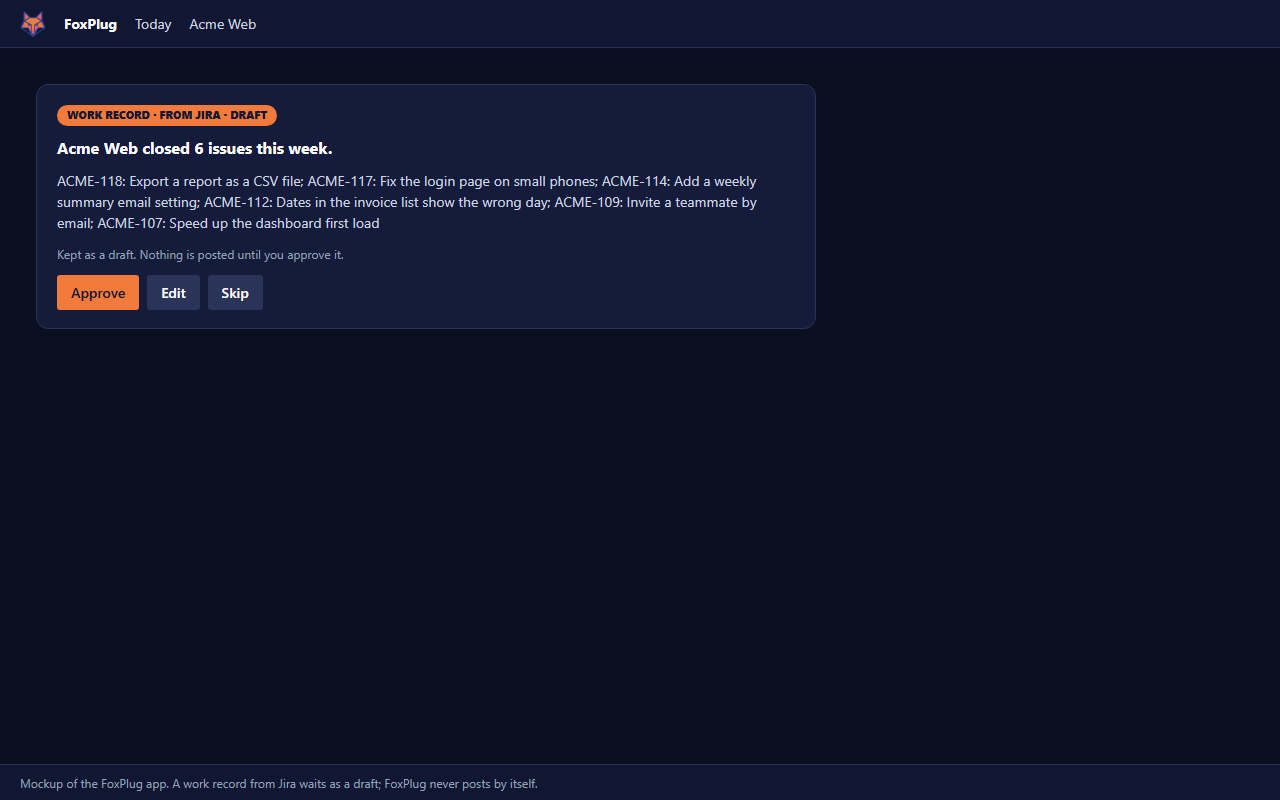
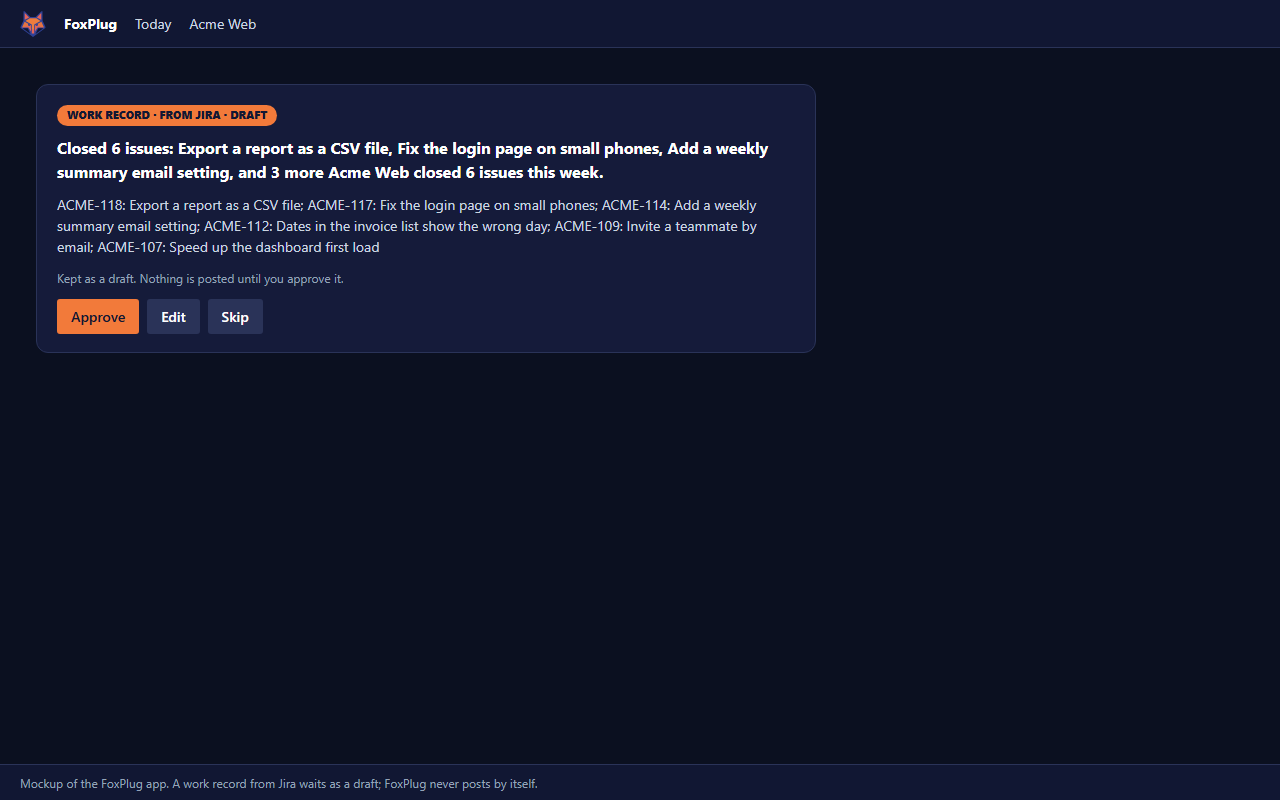
Send success opens the draft in FoxPlug (deep link); plain first line for the work record title

Changed region(s): [[0.0312, 0.1562, 0.6562, 0.4688]]

diff --git a/src/lib.js b/src/lib.js
@@ -40,7 +40,8 @@ const COPY = {
   },
   messages: {
     saved: 'Saved.',
-    sent: 'Sent to FoxPlug as a work record. Open FoxPlug to see it; nothing was posted.',
+    sent: 'Sent. Open your draft in FoxPlug.',
+    sentNoLink: 'Sent to FoxPlug as a work record. Open FoxPlug to see it; nothing was posted.',
     keyOk: 'FoxPlug accepted this key. You can send work records.',
     badKey: 'FoxPlug did not accept this agent key. Make a new one with "Make a plain key" in FoxPlug (steps below) and paste it again.',
     pause: 'FoxPlug asked for a short pause. Try again in a minute.',
@@ -104,12 +105,21 @@ function jiraStatusMessage(status) {
   return 'Jira did not return the issues. Try again in a moment.';
 }
 
-/** One plain block FoxPlug can turn into a milestone. No model, no invention: only the issue keys and summaries. */
+/** One plain block FoxPlug can turn into a milestone. No model, no invention: only the issue keys and summaries.
+ *  The first line becomes the milestone title in FoxPlug, so it carries plain words only ("Closed 5 issues: welcome email, dark mode, ...");
+ *  the issue keys stay in the lines after it. */
 function buildSummary(items, projectName) {
   if (!items.length) return '';
+  const n = items.length;
+  const plain = items.map((r) => String(r.summary || '').trim()).filter(Boolean);
+  const shown = plain.slice(0, 3);
+  let head = `Closed ${n} issue${n === 1 ? '' : 's'}`;
+  if (shown.length) head += `: ${shown.join(', ')}`;
+  if (plain.length > shown.length) head += `, and ${plain.length - shown.length} more`;
+  head = head.slice(0, 180);
   const lines = items.map((r) => `${r.key}: ${r.summary}`);
-  const head = `${projectName || 'The team'} closed ${items.length} issue${items.length === 1 ? '' : 's'} this week.`;
-  return `${head} ${lines.join('; ')}`.slice(0, 1800);
+  const body = `${projectName || 'The team'} closed ${n} issue${n === 1 ? '' : 's'} this week. ${lines.join('; ')}`;
+  return `${head}\n\n${body}`.slice(0, 1800);
 }
 
 // ---------------------------------------------------------------------------------------------------------------------
@@ -118,7 +128,7 @@ function buildSummary(items, projectName) {
 
 /** The JSON-RPC body for FoxPlug's record_work tool (capture is free and posts nothing). */
 function recordWorkBody(foxplugProject, summary) {
-  return { jsonrpc: '2.0', id: 1, method: 'tools/call', params: { name: 'record_work', arguments: { project: String(foxplugProject), summary: String(summary) } } };
+  return { jsonrpc: '2.0', id: 1, method: 'tools/call', params: { name: 'record_work', arguments: { project: String(foxplugProject), summary: String(summary), from_app: 'jira' } } };
 }
 
 /** The JSON-RPC body that only asks which tools the key may use (used to check a key without sending anything). */
@@ -149,7 +159,18 @@ function parseMcpReply(status, data) {
   const r = data.result || {};
   const text = r.content && r.content[0] && r.content[0].text;
   if (r.isError) return { ok: false, message: String(text || 'FoxPlug could not do that.').slice(0, 300) };
-  return { ok: true, message: COPY.messages.sent };
+  // The reply text is JSON with the milestone and project ids; the link is built here from the ids (never taken from the reply as-is).
+  let body = null;
+  try { body = JSON.parse(String(text || '')); } catch (e) { body = null; }
+  const link = draftLink(body && body.project_id, body && body.milestone_id);
+  return link ? { ok: true, message: COPY.messages.sent, openUrl: link } : { ok: true, message: COPY.messages.sentNoLink };
+}
+
+const UUID = /^[0-9a-f]{8}-[0-9a-f]{4}-[0-9a-f]{4}-[0-9a-f]{4}-[0-9a-f]{12}$/i;
+/** The link to the draft in FoxPlug: only ever foxplug.com, only with two real ids. */
+function draftLink(projectId, milestoneId) {
+  if (!UUID.test(String(projectId || '')) || !UUID.test(String(milestoneId || ''))) return '';
+  return `https://foxplug.com/app/?project=${projectId}&milestone=${milestoneId}&from=jira`;
 }
 
 /** Reads FoxPlug's reply to tools/list into { ok, message }: a key that FoxPlug accepts answers with the tool list. */
@@ -252,6 +273,6 @@ function friendlyError(err, where) {
 module.exports = {
   MCP_ENDPOINT, KEY_PAGE, MAX_ISSUES, COPY,
   isProjectKey, buildJql, toShippedItems, jiraStatusMessage, buildSummary,
-  recordWorkBody, toolsListBody, projectsBody, parseProjects, parseMcpReply, parseKeyCheck, feedUrl, toFeedItems, feedStatusMessage, isAgentKey,
+  recordWorkBody, toolsListBody, projectsBody, parseProjects, parseMcpReply, draftLink, parseKeyCheck, feedUrl, toFeedItems, feedStatusMessage, isAgentKey,
   validateSettings, sendBlockedReason, shippedView, feedView, friendlyError,
 };

diff --git a/assets/mockups/05-sent.html b/assets/mockups/05-sent.html
@@ -28,5 +28,5 @@ ol{padding-left:20px;margin:0 0 10px}li{margin:0 0 4px}
 </style></head><body>
 <div class="top"><b>Jira</b><span>Projects</span><span>Acme Web (ACME)</span></div>
 <div class="wrap"><div class="side"><div>Backlog</div><div>Board</div><div>Timeline</div><div class="on">Shipped this week (FoxPlug)</div><div>Project settings</div></div>
-<div class="main"><div class="msg ok">Sent to FoxPlug as a work record. Open FoxPlug to see it; nothing was posted.</div><h2>Shipped this week</h2><p>Read-only: this page reads the issues your team closed in the last 7 days. Sending them to FoxPlug keeps one work record that you approve in FoxPlug. Nothing is posted anywhere.</p><div class="cols"><div class="col"><h3>Closed in Jira</h3><div class="row"><span class="loz Story">Story</span><span>ACME-118: Export a report as a CSV file</span></div><div class="row"><span class="loz Bug">Bug</span><span>ACME-117: Fix the login page on small phones</span></div><div class="row"><span class="loz Task">Task</span><span>ACME-114: Add a weekly summary email setting</span></div><div class="row"><span class="loz Bug">Bug</span><span>ACME-112: Dates in the invoice list show the wrong day</span></div><div class="row"><span class="loz Story">Story</span><span>ACME-109: Invite a teammate by email</span></div><div class="row"><span class="loz Task">Task</span><span>ACME-107: Speed up the dashboard first load</span></div><span class="btn pri">Send to FoxPlug</span><span class="btn">Refresh</span></div><div class="col"><h3>Already in the FoxPlug changelog</h3><div class="row"><a>Invite your team by email</a><span class="help" style="margin:0">Nov 6</span></div><div class="row"><a>Faster first load on the dashboard</a><span class="help" style="margin:0">Oct 30</span></div><div class="row"><a>Dark mode for the invoice list</a><span class="help" style="margin:0">Oct 23</span></div><div class="row"><a>Weekly summary, now on by default</a><span class="help" style="margin:0">Oct 16</span></div><div class="row"><a>Import from a CSV file</a><span class="help" style="margin:0">Oct 9</span></div></div></div></div></div>
+<div class="main"><div class="msg ok">Sent. Open your draft in FoxPlug.</div><h2>Shipped this week</h2><p>Read-only: this page reads the issues your team closed in the last 7 days. Sending them to FoxPlug keeps one work record that you approve in FoxPlug. Nothing is posted anywhere.</p><div class="cols"><div class="col"><h3>Closed in Jira</h3><div class="row"><span class="loz Story">Story</span><span>ACME-118: Export a report as a CSV file</span></div><div class="row"><span class="loz Bug">Bug</span><span>ACME-117: Fix the login page on small phones</span></div><div class="row"><span class="loz Task">Task</span><span>ACME-114: Add a weekly summary email setting</span></div><div class="row"><span class="loz Bug">Bug</span><span>ACME-112: Dates in the invoice list show the wrong day</span></div><div class="row"><span class="loz Story">Story</span><span>ACME-109: Invite a teammate by email</span></div><div class="row"><span class="loz Task">Task</span><span>ACME-107: Speed up the dashboard first load</span></div><span class="btn pri">Send to FoxPlug</span><span class="btn">Refresh</span></div><div class="col"><h3>Already in the FoxPlug changelog</h3><div class="row"><a>Invite your team by email</a><span class="help" style="margin:0">Nov 6</span></div><div class="row"><a>Faster first load on the dashboard</a><span class="help" style="margin:0">Oct 30</span></div><div class="row"><a>Dark mode for the invoice list</a><span class="help" style="margin:0">Oct 23</span></div><div class="row"><a>Weekly summary, now on by default</a><span class="help" style="margin:0">Oct 16</span></div><div class="row"><a>Import from a CSV file</a><span class="help" style="margin:0">Oct 9</span></div></div></div></div></div>
 <div class="foot">Mockup of FoxPlug for Jira. The real page runs inside a Jira project and shows the same words.</div></body></html>

diff --git a/test/lib.test.js b/test/lib.test.js
@@ -58,9 +58,11 @@ test('jiraStatusMessage says what to do for each kind of Jira refusal, with no c
 
 test('buildSummary is built only from keys and summaries', () => {
   const s = lib.buildSummary([{ key: 'ACME-1', summary: 'Fix login' }, { key: 'ACME-2', summary: 'Add export' }], 'Acme');
-  assert.strictEqual(s, 'Acme closed 2 issues this week. ACME-1: Fix login; ACME-2: Add export');
+  assert.strictEqual(s, 'Closed 2 issues: Fix login, Add export\n\nAcme closed 2 issues this week. ACME-1: Fix login; ACME-2: Add export');
+  assert.doesNotMatch(s.split('\n')[0], /[A-Z]+-\d+/, 'the first line (the FoxPlug title) has no issue keys');
+  assert.strictEqual(lib.buildSummary([1, 2, 3, 4, 5].map((i) => ({ key: 'K-' + i, summary: 'item ' + i })), 'Acme').split('\n')[0], 'Closed 5 issues: item 1, item 2, item 3, and 2 more');
   assert.strictEqual(lib.buildSummary([], 'Acme'), '');
-  assert.match(lib.buildSummary([{ key: 'A-1', summary: 'x' }], ''), /^The team closed 1 issue this week\./);
+  assert.match(lib.buildSummary([{ key: 'A-1', summary: 'x' }], ''), /\n\nThe team closed 1 issue this week\./);
   assert.ok(lib.buildSummary(Array(25).fill({ key: 'ACME-1', summary: 'y'.repeat(160) }), 'A').length <= 1800);
 });
 
@@ -69,7 +71,7 @@ test('buildSummary is built only from keys and summaries', () => {
 test('recordWorkBody calls record_work with project and summary only', () => {
   const b = lib.recordWorkBody('My Project', 'text');
   assert.strictEqual(b.method, 'tools/call');
-  assert.deepStrictEqual(b.params, { name: 'record_work', arguments: { project: 'My Project', summary: 'text' } });
+  assert.deepStrictEqual(b.params, { name: 'record_work', arguments: { project: 'My Project', summary: 'text', from_app: 'jira' } });
 });
 
 test('toolsListBody only asks which tools the key may use', () => {
@@ -78,6 +80,11 @@ test('toolsListBody only asks which tools the key may use', () => {
 
 test('parseMcpReply turns every FoxPlug answer into a calm message', () => {
   assert.strictEqual(lib.parseMcpReply(200, { result: { content: [{ text: '{}' }] } }).ok, true);
+  const P = '11111111-2222-3333-4444-555555555555', M = 'aaaaaaaa-bbbb-cccc-dddd-eeeeeeeeeeee';
+  const sent = lib.parseMcpReply(200, { result: { content: [{ text: JSON.stringify({ project_id: P, milestone_id: M }) }] } });
+  assert.strictEqual(sent.message, 'Sent. Open your draft in FoxPlug.');
+  assert.strictEqual(sent.openUrl, `https://foxplug.com/app/?project=${P}&milestone=${M}&from=jira`);
+  assert.strictEqual(lib.parseMcpReply(200, { result: { content: [{ text: JSON.stringify({ project_id: 'x/../y', milestone_id: M }) }] } }).openUrl, undefined, 'a reply with a bad id gives no link');
   assert.match(lib.parseMcpReply(401, null).message, /agent key/);
   assert.match(lib.parseMcpReply(403, null).message, /agent key/);
   assert.match(lib.parseMcpReply(429, null).message, /pause/);

diff --git a/assets/mockups/06-foxplug-draft.html b/assets/mockups/06-foxplug-draft.html
@@ -27,5 +27,7 @@ ol{padding-left:20px;margin:0 0 10px}li{margin:0 0 4px}
 .fp .btn{background:#2a3358;color:#fff}.fp .btn.pri{background:#F27A3A;color:#111733}.fp .foot{background:#111733;border-color:#2a3358;color:#94A3B8}
 </style></head><body class="fp">
 <div class="top"><img src="../fox-head.svg" alt="FoxPlug" height="26"><b>FoxPlug</b><span>Today</span><span>Acme Web</span></div>
-<div class="wrap" style="padding:36px"><div><div class="card"><span class="pill">WORK RECORD · FROM JIRA · DRAFT</span><h3>Acme Web closed 6 issues this week.</h3><p style="color:#CBD5E1">ACME-118: Export a report as a CSV file; ACME-117: Fix the login page on small phones; ACME-114: Add a weekly summary email setting; ACME-112: Dates in the invoice list show the wrong day; ACME-109: Invite a teammate by email; ACME-107: Speed up the dashboard first load</p><p class="help" style="color:#94A3B8">Kept as a draft. Nothing is posted until you approve it.</p><span class="btn pri">Approve</span><span class="btn">Edit</span><span class="btn">Skip</span></div></div></div>
+<div class="wrap" style="padding:36px"><div><div class="card"><span class="pill">WORK RECORD · FROM JIRA · DRAFT</span><h3>Closed 6 issues: Export a report as a CSV file, Fix the login page on small phones, Add a weekly summary email setting, and 3 more
+
+Acme Web closed 6 issues this week.</h3><p style="color:#CBD5E1">ACME-118: Export a report as a CSV file; ACME-117: Fix the login page on small phones; ACME-114: Add a weekly summary email setting; ACME-112: Dates in the invoice list show the wrong day; ACME-109: Invite a teammate by email; ACME-107: Speed up the dashboard first load</p><p class="help" style="color:#94A3B8">Kept as a draft. Nothing is posted until you approve it.</p><span class="btn pri">Approve</span><span class="btn">Edit</span><span class="btn">Skip</span></div></div></div>
 <div class="foot">Mockup of the FoxPlug app. A work record from Jira waits as a draft; FoxPlug never posts by itself.</div></body></html>

diff --git a/src/frontend/index.jsx b/src/frontend/index.jsx
@@ -40,7 +40,7 @@ const App = () => {
   const send = async () => {
     setBusy('sending'); setNote(null);
     const r = await invoke('sendToFoxPlug');
-    setNote({ appearance: r && r.ok ? 'confirmation' : 'warning', text: (r && r.message) || 'FoxPlug did not answer this request.' });
+    setNote({ appearance: r && r.ok ? 'confirmation' : 'warning', text: (r && r.message) || 'FoxPlug did not answer this request.', link: (r && r.ok && r.openUrl) || '' });
     setBusy('');
   };
 
@@ -62,7 +62,7 @@ const App = () => {
     <Stack space="space.200">
       <Heading as="h2">{COPY.title}</Heading>
       <Text>{COPY.intro}</Text>
-      {note && <SectionMessage appearance={note.appearance}><Text>{note.text}</Text></SectionMessage>}
+      {note && <SectionMessage appearance={note.appearance}><Text>{note.link ? <Tooltip text="Opens FoxPlug in a new tab, on the draft made from these issues."><Link href={note.link} openNewTab>{note.text}</Link></Tooltip> : note.text}</Text></SectionMessage>}
 
       <Inline space="space.300" alignBlock="start">
         <Box>
